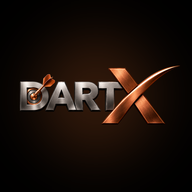
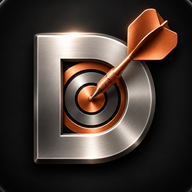
Yeni uygulama simgesi: metalik D ve bakir dart (ana ekran, Android, iOS, macOS)

diff --git a/sw.js b/sw.js
@@ -1,6 +1,6 @@
 // DartX — internetsiz çalışma (önbellek)
 // Yeni sürüm yayınlarken VERSION'u artır.
-const VERSION = 'dartx-b235';
+const VERSION = 'dartx-b236';
 const FILES = [
   'ses/spiker/liste.json',
   'ses/spiker/bull.mp3',

diff --git a/js/derleme.js b/js/derleme.js
@@ -1,2 +1,2 @@
 // Derleme numarası: her yayında DartX-yayin/guncelle.sh 1 artırır (sw.js VERSION da buna uyar)
-export const DERLEME = 235;
+export const DERLEME = 236;
